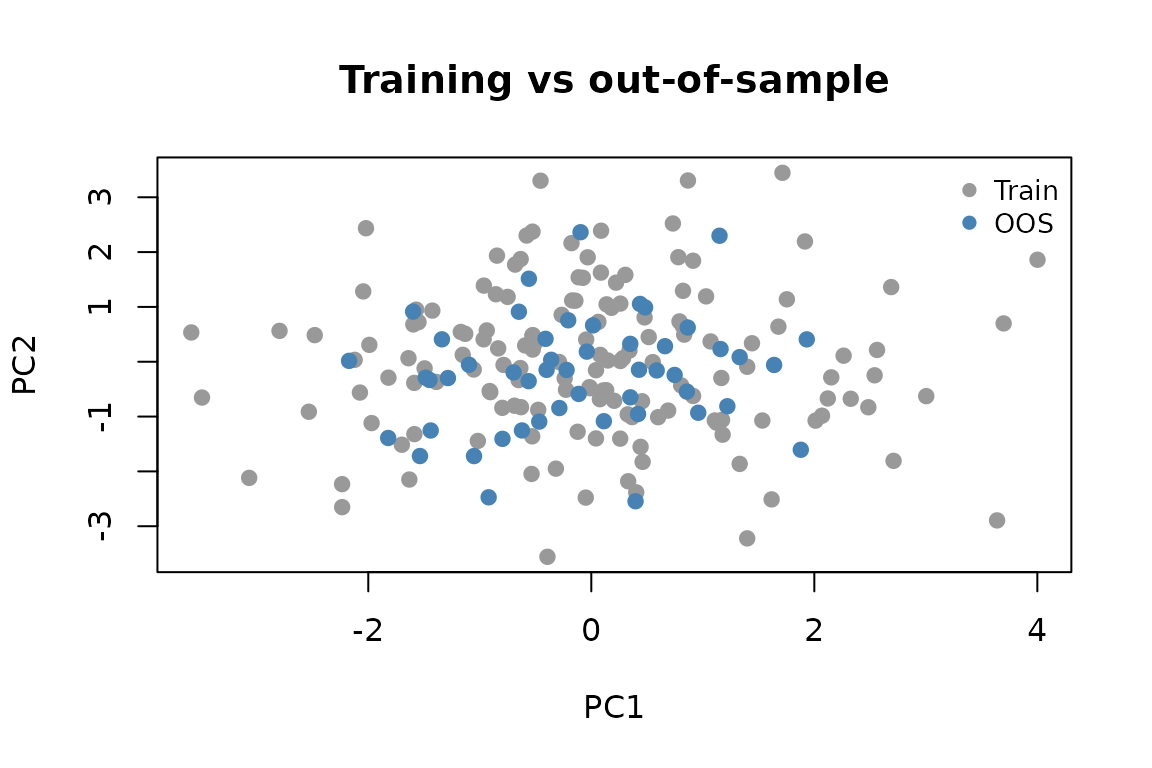
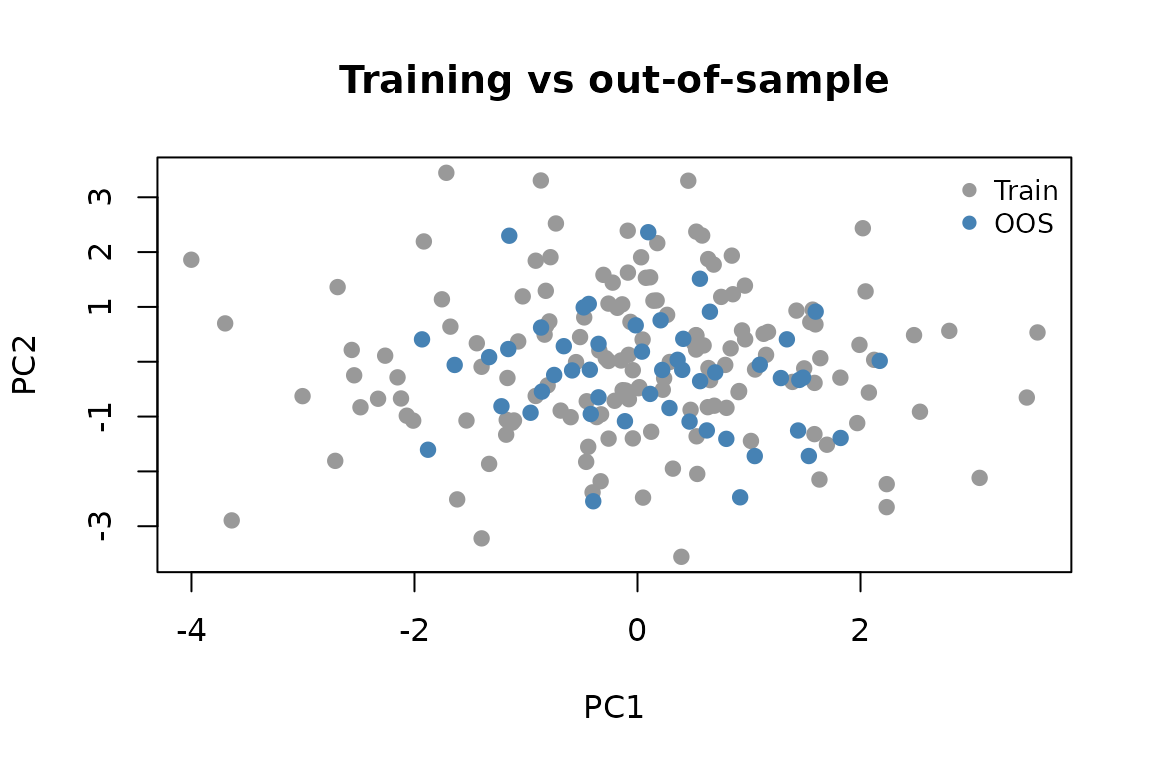
Deploying to gh-pages from @ bbuchsbaum/genpca@3a3d4e058f54f52767fd52d77a189ea969990e59 🚀

diff --git a/articles/gpca-scale.html b/articles/gpca-scale.html
@@ -149,8 +149,8 @@ singular values agree across paths:</p>
 <span>           elapsed <span class="op">=</span> <span class="fu"><a href="https://rdrr.io/r/base/c.html" class="external-link">c</a></span><span class="op">(</span><span class="va">t_eig</span><span class="op">[</span><span class="st">"elapsed"</span><span class="op">]</span>, <span class="va">t_rnd</span><span class="op">[</span><span class="st">"elapsed"</span><span class="op">]</span><span class="op">)</span>,</span>
 <span>           top_sv  <span class="op">=</span> <span class="fu"><a href="https://rdrr.io/r/base/c.html" class="external-link">c</a></span><span class="op">(</span><span class="va">fit_eig</span><span class="op">$</span><span class="va">sdev</span><span class="op">[</span><span class="fl">1</span><span class="op">]</span>, <span class="va">fit_rnd</span><span class="op">$</span><span class="va">sdev</span><span class="op">[</span><span class="fl">1</span><span class="op">]</span><span class="op">)</span><span class="op">)</span></span>
 <span><span class="co">#&gt;       method elapsed   top_sv</span></span>
-<span><span class="co">#&gt; 1      eigen   0.113 19.48896</span></span>
-<span><span class="co">#&gt; 2 randomized   0.009 19.14753</span></span></code></pre></div>
+<span><span class="co">#&gt; 1      eigen   0.105 19.48896</span></span>
+<span><span class="co">#&gt; 2 randomized   0.010 19.14753</span></span></code></pre></div>
 <div class="figure">
 <img src="gpca-scale_files/figure-html/backend-plot-1.png" class="r-plt" alt="Singular values from the eigen and randomized paths agree to plotting precision on this dense problem." width="85%"><p class="caption">
 Singular values from the eigen and randomized paths agree to plotting
@@ -205,11 +205,11 @@ same component space:</p>
 <span>              preproc <span class="op">=</span> <span class="fu">multivarious</span><span class="fu">::</span><span class="fu"><a href="https://bbuchsbaum.github.io/multivarious/reference/center.html" class="external-link">center</a></span><span class="op">(</span><span class="op">)</span><span class="op">)</span></span>
 <span><span class="va">scores_test</span> <span class="op">&lt;-</span> <span class="fu">multivarious</span><span class="fu">::</span><span class="fu"><a href="https://bbuchsbaum.github.io/multivarious/reference/project.html" class="external-link">project</a></span><span class="op">(</span><span class="va">fit</span>, <span class="va">X</span><span class="op">[</span><span class="fl">151</span><span class="op">:</span><span class="fl">200</span>, <span class="op">]</span><span class="op">)</span></span>
 <span><span class="fu"><a href="https://rdrr.io/r/utils/head.html" class="external-link">head</a></span><span class="op">(</span><span class="va">scores_test</span>, <span class="fl">4</span><span class="op">)</span></span>
-<span><span class="co">#&gt;            PC1        PC2        PC3        PC4</span></span>
-<span><span class="co">#&gt; [1,] 1.9323426  0.4080526  0.1924407  0.6673048</span></span>
-<span><span class="co">#&gt; [2,] 0.3498745 -0.6490485 -0.2579339 -0.9996621</span></span>
-<span><span class="co">#&gt; [3,] 0.9590113 -0.9305126  1.4603670  1.1496702</span></span>
-<span><span class="co">#&gt; [4,] 0.1125973 -1.0845757  0.2493420  1.2509707</span></span></code></pre></div>
+<span><span class="co">#&gt;             PC1        PC2        PC3        PC4</span></span>
+<span><span class="co">#&gt; [1,] -1.9323426  0.4080526  0.1924407  0.6673048</span></span>
+<span><span class="co">#&gt; [2,] -0.3498745 -0.6490485 -0.2579339 -0.9996621</span></span>
+<span><span class="co">#&gt; [3,] -0.9590113 -0.9305126  1.4603670  1.1496702</span></span>
+<span><span class="co">#&gt; [4,] -0.1125973 -1.0845757  0.2493420  1.2509707</span></span></code></pre></div>
 <div class="figure">
 <img src="gpca-scale_files/figure-html/oos-plot-1.png" class="r-plt" alt="Training scores (grey) and out-of-sample scores (blue) projected into the same component space." width="85%"><p class="caption">
 Training scores (grey) and out-of-sample scores (blue) projected into

diff --git a/articles/gpca-scale.md b/articles/gpca-scale.md
@@ -40,8 +40,8 @@ data.frame(method = c("eigen", "randomized"),
            elapsed = c(t_eig["elapsed"], t_rnd["elapsed"]),
            top_sv  = c(fit_eig$sdev[1], fit_rnd$sdev[1]))
 #>       method elapsed   top_sv
-#> 1      eigen   0.113 19.48896
-#> 2 randomized   0.009 19.14753
+#> 1      eigen   0.105 19.48896
+#> 2 randomized   0.010 19.14753
 ```
 
 ![Singular values from the eigen and randomized paths agree to plotting
@@ -104,11 +104,11 @@ fit <- genpca(X[1:150, ], ncomp = 4,
               preproc = multivarious::center())
 scores_test <- multivarious::project(fit, X[151:200, ])
 head(scores_test, 4)
-#>            PC1        PC2        PC3        PC4
-#> [1,] 1.9323426  0.4080526  0.1924407  0.6673048
-#> [2,] 0.3498745 -0.6490485 -0.2579339 -0.9996621
-#> [3,] 0.9590113 -0.9305126  1.4603670  1.1496702
-#> [4,] 0.1125973 -1.0845757  0.2493420  1.2509707
+#>             PC1        PC2        PC3        PC4
+#> [1,] -1.9323426  0.4080526  0.1924407  0.6673048
+#> [2,] -0.3498745 -0.6490485 -0.2579339 -0.9996621
+#> [3,] -0.9590113 -0.9305126  1.4603670  1.1496702
+#> [4,] -0.1125973 -1.0845757  0.2493420  1.2509707
 ```
 
 ![Training scores (grey) and out-of-sample scores (blue) projected into